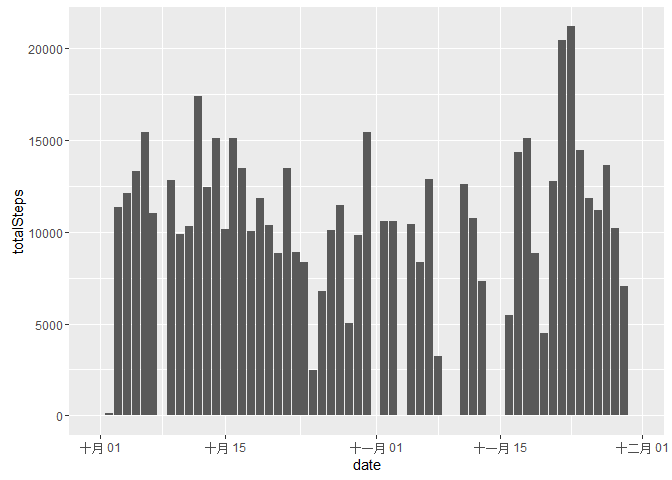
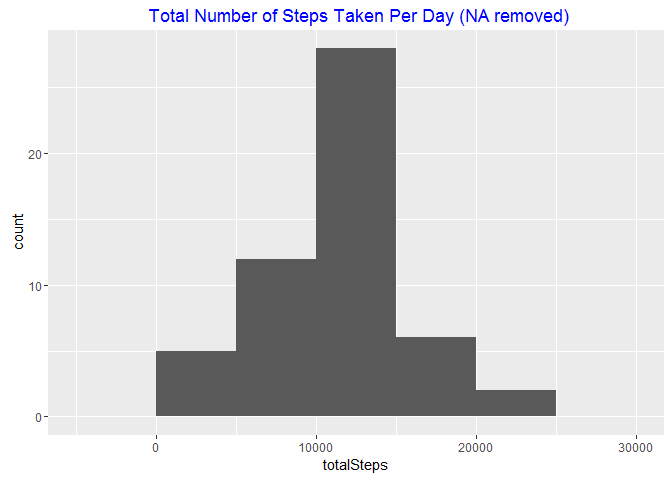
2nd commit

diff --git a/PA1_template.html b/PA1_template.html
@@ -76,50 +76,35 @@ data$date&lt;-as.Date(data$date)</code></pre>
 </ol>
 <pre class="r"><code>  require(dplyr)
   
-  by_day&lt;-group_by(data, date)
-  steps_by_day&lt;-summarise(by_day,totalSteps=sum(steps,na.rm = TRUE))
-  head(steps_by_day,n = 5)</code></pre>
-<pre><code>## Source: local data frame [5 x 2]
-## 
-##         date totalSteps
-##       (date)      (int)
-## 1 2012-10-01          0
-## 2 2012-10-02        126
-## 3 2012-10-03      11352
-## 4 2012-10-04      12116
-## 5 2012-10-05      13294</code></pre>
+  by_day&lt;-group_by(na.omit(data), date)
+  steps_by_day&lt;-summarise(by_day,totalSteps=sum(steps))
+  summary(steps_by_day)</code></pre>
+<pre><code>##       date              totalSteps   
+##  Min.   :2012-10-02   Min.   :   41  
+##  1st Qu.:2012-10-16   1st Qu.: 8841  
+##  Median :2012-10-29   Median :10765  
+##  Mean   :2012-10-30   Mean   :10766  
+##  3rd Qu.:2012-11-16   3rd Qu.:13294  
+##  Max.   :2012-11-29   Max.   :21194</code></pre>
 <ol start="2" style="list-style-type: decimal">
 <li>Make a histogram of the total number of steps taken each day</li>
 </ol>
 <pre class="r"><code>  require(ggplot2)
   
-  p&lt;-ggplot(data = steps_by_day,aes(x = date, y = totalSteps)) +
-      geom_bar(stat = &quot;identity&quot;)
+  p&lt;-ggplot(data = steps_by_day,aes(x = totalSteps)) +
+      geom_histogram(binwidth = 5000)+
+      labs(title = &quot; Total Number of Steps Taken Per Day (NA removed)&quot;)+
+      theme(plot.title = element_text(colour = &quot;blue&quot;))
   print(p)</code></pre>
[1 lines of base64/hex data omitted]
-<pre class="r"><code>  by_day&lt;-group_by(data, date)
-  steps_by_day&lt;-summarise(by_day,meanSteps=mean(steps,na.rm = TRUE))
-  head(steps_by_day,n = 5)</code></pre>
-<pre><code>## Source: local data frame [5 x 2]
-## 
-##         date meanSteps
-##       (date)     (dbl)
-## 1 2012-10-01       NaN
-## 2 2012-10-02   0.43750
-## 3 2012-10-03  39.41667
-## 4 2012-10-04  42.06944
-## 5 2012-10-05  46.15972</code></pre>
-<pre class="r"><code>  steps_by_day&lt;-summarise(by_day,medianSteps=median(steps,na.rm = TRUE))
-  head(steps_by_day,n = 5)</code></pre>
-<pre><code>## Source: local data frame [5 x 2]
-## 
-##         date medianSteps
-##       (date)       (dbl)
-## 1 2012-10-01          NA
-## 2 2012-10-02           0
-## 3 2012-10-03           0
-## 4 2012-10-04           0
-## 5 2012-10-05           0</code></pre>
[1 lines of base64/hex data omitted]
+<pre class="r"><code>  mean&lt;-mean(steps_by_day$totalSteps)
+  median&lt;-median(steps_by_day$totalSteps)</code></pre>
+<div id="mean-of-the-total-number-of-steps-taken-per-day1.0766189104" class="section level4">
+<h4>-mean of the total number of steps taken per day:1.076618910^{4}</h4>
+</div>
+<div id="median-of-the-total-number-of-steps-taken-per-day10765" class="section level4">
+<h4>-median of the total number of steps taken per day:10765</h4>
+</div>
 </div>
 <div id="what-is-the-average-daily-activity-pattern" class="section level2">
 <h2>What is the average daily activity pattern?</h2>
@@ -184,33 +169,20 @@ data$date&lt;-as.Date(data$date)</code></pre>
 </ol>
 <pre class="r"><code>  by_day&lt;-group_by(data, date)
   steps_by_day&lt;-summarise(by_day,totalSteps=sum(steps,na.rm = TRUE))
-  p&lt;-ggplot(data = steps_by_day,aes(x = date, y = totalSteps)) +
-      geom_bar(stat = &quot;identity&quot;)
+  p&lt;-ggplot(data = steps_by_day,aes(x = totalSteps)) +
+      geom_histogram(binwidth = 5000)+
+      labs(title = &quot; Total Number of Steps Taken Per Day (NA filled)&quot;)+
+      theme(plot.title = element_text(colour = &quot;blue&quot;))
   print(p)</code></pre>
[1 lines of base64/hex data omitted]
-<pre class="r"><code>  steps_by_day&lt;-summarise(by_day,meanSteps=mean(steps,na.rm = TRUE))
-  head(steps_by_day,n = 5)</code></pre>
-<pre><code>## Source: local data frame [5 x 2]
-## 
-##         date meanSteps
-##       (date)     (dbl)
-## 1 2012-10-01  37.38260
-## 2 2012-10-02   0.43750
-## 3 2012-10-03  39.41667
-## 4 2012-10-04  42.06944
-## 5 2012-10-05  46.15972</code></pre>
-<pre class="r"><code>  steps_by_day&lt;-summarise(by_day,medianSteps=median(steps,na.rm = TRUE))
-  head(steps_by_day,n = 5)</code></pre>
-<pre><code>## Source: local data frame [5 x 2]
-## 
-##         date medianSteps
-##       (date)       (dbl)
-## 1 2012-10-01    34.11321
-## 2 2012-10-02     0.00000
-## 3 2012-10-03     0.00000
-## 4 2012-10-04     0.00000
-## 5 2012-10-05     0.00000</code></pre>
-<p>The values differ from the estimates from the first part of the assignment.</p>
[1 lines of base64/hex data omitted]
+<pre class="r"><code>  mean2&lt;-mean(steps_by_day$totalSteps)
+  median2&lt;-median(steps_by_day$totalSteps)</code></pre>
+<div id="mean-of-the-total-number-of-steps-taken-per-day1.0766189104-differ-0" class="section level4">
+<h4>-mean of the total number of steps taken per day:1.076618910^{4}, differ: 0</h4>
+</div>
+<div id="median-of-the-total-number-of-steps-taken-per-day10765-differ-1.1886792" class="section level4">
+<h4>-median of the total number of steps taken per day:10765, differ: 1.1886792</h4>
+</div>
 </div>
 <div id="are-there-differences-in-activity-patterns-between-weekdays-and-weekends" class="section level2">
 <h2>Are there differences in activity patterns between weekdays and weekends?</h2>

diff --git a/PA1_template.md b/PA1_template.md
@@ -14,29 +14,29 @@ data$date<-as.Date(data$date)
 ```r
   require(dplyr)
   
-  by_day<-group_by(data, date)
-  steps_by_day<-summarise(by_day,totalSteps=sum(steps,na.rm = TRUE))
-  head(steps_by_day,n = 5)
+  by_day<-group_by(na.omit(data), date)
+  steps_by_day<-summarise(by_day,totalSteps=sum(steps))
+  summary(steps_by_day)
 ```
 
 ```
-## Source: local data frame [5 x 2]
-## 
-##         date totalSteps
-##       (date)      (int)
-## 1 2012-10-01          0
-## 2 2012-10-02        126
-## 3 2012-10-03      11352
-## 4 2012-10-04      12116
-## 5 2012-10-05      13294
+##       date              totalSteps   
+##  Min.   :2012-10-02   Min.   :   41  
+##  1st Qu.:2012-10-16   1st Qu.: 8841  
+##  Median :2012-10-29   Median :10765  
+##  Mean   :2012-10-30   Mean   :10766  
+##  3rd Qu.:2012-11-16   3rd Qu.:13294  
+##  Max.   :2012-11-29   Max.   :21194
 ```
 2. Make a histogram of the total number of steps taken each day
 
 ```r
   require(ggplot2)
   
-  p<-ggplot(data = steps_by_day,aes(x = date, y = totalSteps)) +
-      geom_bar(stat = "identity")
+  p<-ggplot(data = steps_by_day,aes(x = totalSteps)) +
+      geom_histogram(binwidth = 5000)+
+      labs(title = " Total Number of Steps Taken Per Day (NA removed)")+
+      theme(plot.title = element_text(colour = "blue"))
   print(p)
 ```
 
@@ -44,40 +44,11 @@ data$date<-as.Date(data$date)
 3. Calculate and report the mean and median of the total number of steps taken per day
 
 ```r
-  by_day<-group_by(data, date)
-  steps_by_day<-summarise(by_day,meanSteps=mean(steps,na.rm = TRUE))
-  head(steps_by_day,n = 5)
+  mean<-mean(steps_by_day$totalSteps)
+  median<-median(steps_by_day$totalSteps)
 ```
-
-```
-## Source: local data frame [5 x 2]
-## 
-##         date meanSteps
-##       (date)     (dbl)
-## 1 2012-10-01       NaN
-## 2 2012-10-02   0.43750
-## 3 2012-10-03  39.41667
-## 4 2012-10-04  42.06944
-## 5 2012-10-05  46.15972
-```
-
-```r
-  steps_by_day<-summarise(by_day,medianSteps=median(steps,na.rm = TRUE))
-  head(steps_by_day,n = 5)
-```
-
-```
-## Source: local data frame [5 x 2]
-## 
-##         date medianSteps
-##       (date)       (dbl)
-## 1 2012-10-01          NA
-## 2 2012-10-02           0
-## 3 2012-10-03           0
-## 4 2012-10-04           0
-## 5 2012-10-05           0
-```
-
+####-mean of the total number of steps taken per day:1.0766189\times 10^{4}
+####-median of the total number of steps taken per day:10765
 
 ## What is the average daily activity pattern?
 1. Make a time series plot of the 5-minute interval (x-axis) and the average number of steps taken, averaged across all days (y-axis)
@@ -159,47 +130,21 @@ Dataset contain 0 missing values.
 ```r
   by_day<-group_by(data, date)
   steps_by_day<-summarise(by_day,totalSteps=sum(steps,na.rm = TRUE))
-  p<-ggplot(data = steps_by_day,aes(x = date, y = totalSteps)) +
-      geom_bar(stat = "identity")
+  p<-ggplot(data = steps_by_day,aes(x = totalSteps)) +
+      geom_histogram(binwidth = 5000)+
+      labs(title = " Total Number of Steps Taken Per Day (NA filled)")+
+      theme(plot.title = element_text(colour = "blue"))
   print(p)
 ```
 
 ![](PA1_template_files/figure-html/q4_4-1.png)\
 
 ```r
-  steps_by_day<-summarise(by_day,meanSteps=mean(steps,na.rm = TRUE))
-  head(steps_by_day,n = 5)
+  mean2<-mean(steps_by_day$totalSteps)
+  median2<-median(steps_by_day$totalSteps)
 ```
-
-```
-## Source: local data frame [5 x 2]
-## 
-##         date meanSteps
-##       (date)     (dbl)
-## 1 2012-10-01  37.38260
-## 2 2012-10-02   0.43750
-## 3 2012-10-03  39.41667
-## 4 2012-10-04  42.06944
-## 5 2012-10-05  46.15972
-```
-
-```r
-  steps_by_day<-summarise(by_day,medianSteps=median(steps,na.rm = TRUE))
-  head(steps_by_day,n = 5)
-```
-
-```
-## Source: local data frame [5 x 2]
-## 
-##         date medianSteps
-##       (date)       (dbl)
-## 1 2012-10-01    34.11321
-## 2 2012-10-02     0.00000
-## 3 2012-10-03     0.00000
-## 4 2012-10-04     0.00000
-## 5 2012-10-05     0.00000
-```
-The values differ from the estimates from the first part of the assignment.
+####-mean of the total number of steps taken per day:1.0766189\times 10^{4}, differ: 0
+####-median of the total number of steps taken per day:10765, differ: 1.1886792
 
 ## Are there differences in activity patterns between weekdays and weekends?
 1. Create a new factor variable in the dataset with two levels – “weekday” and “weekend”
